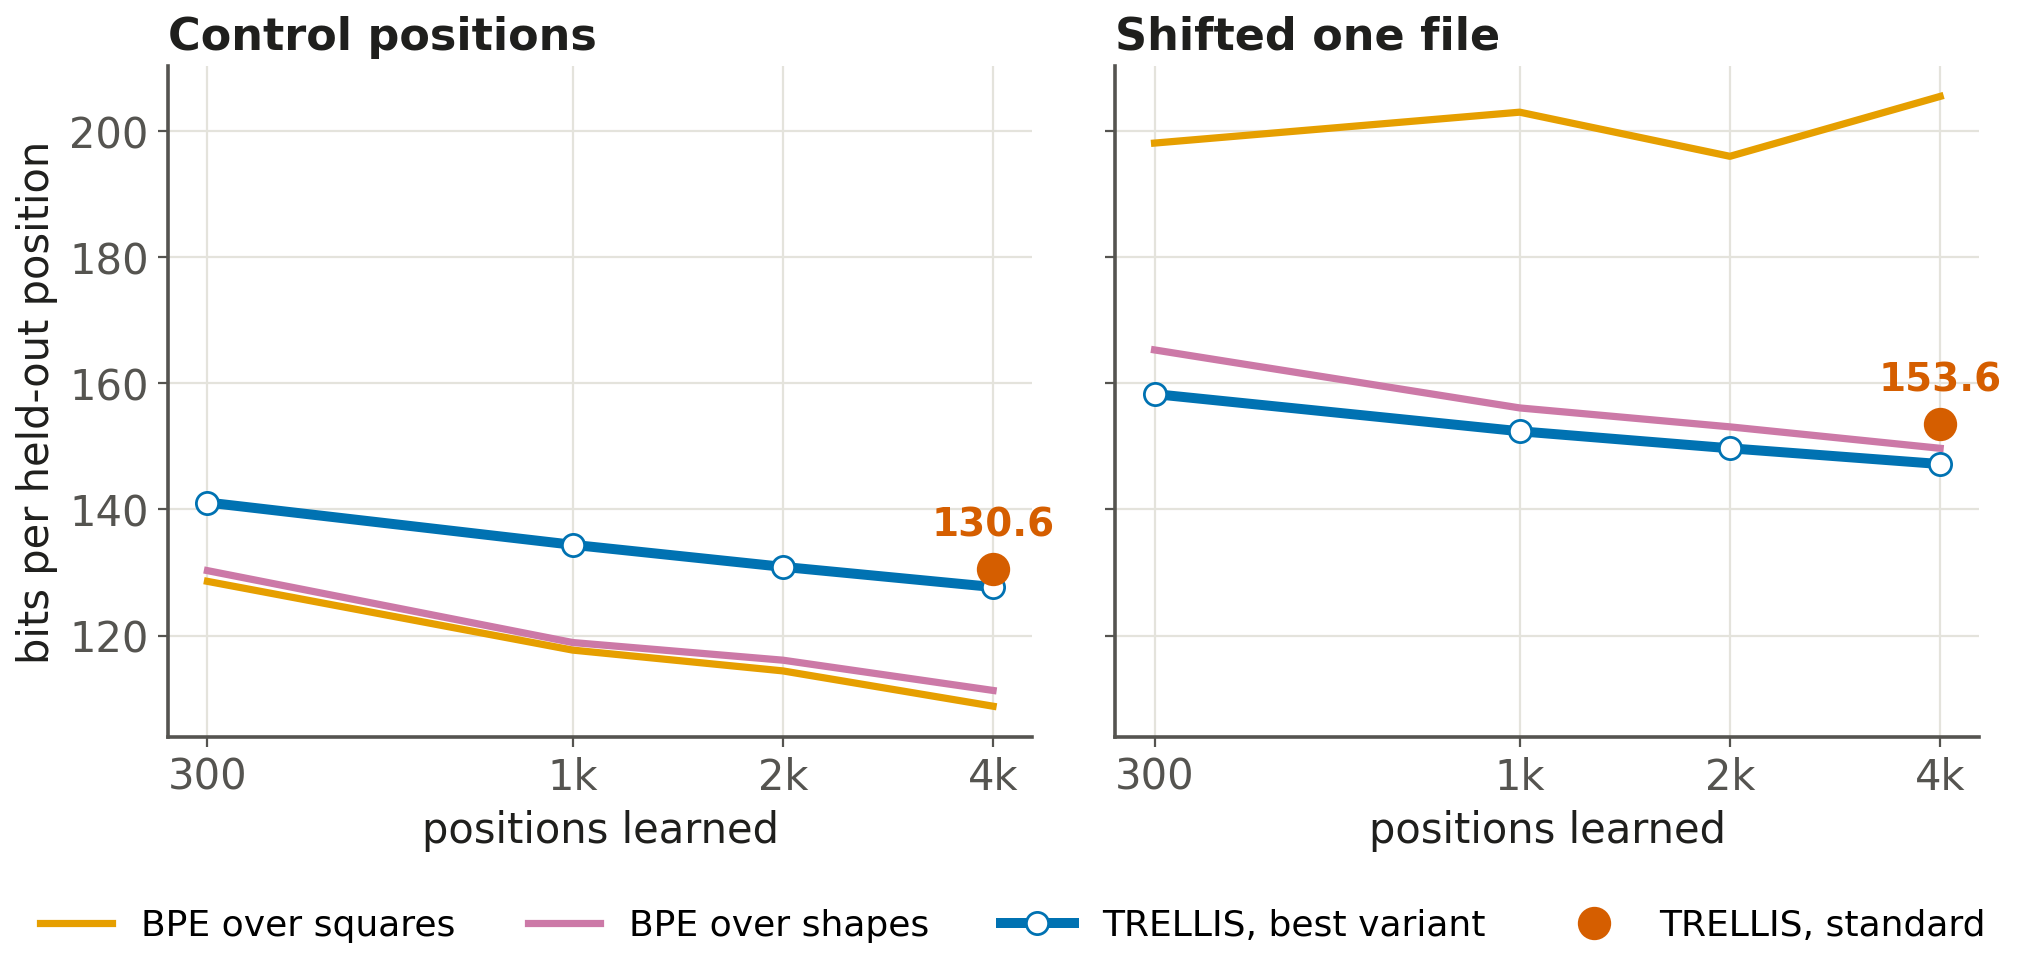
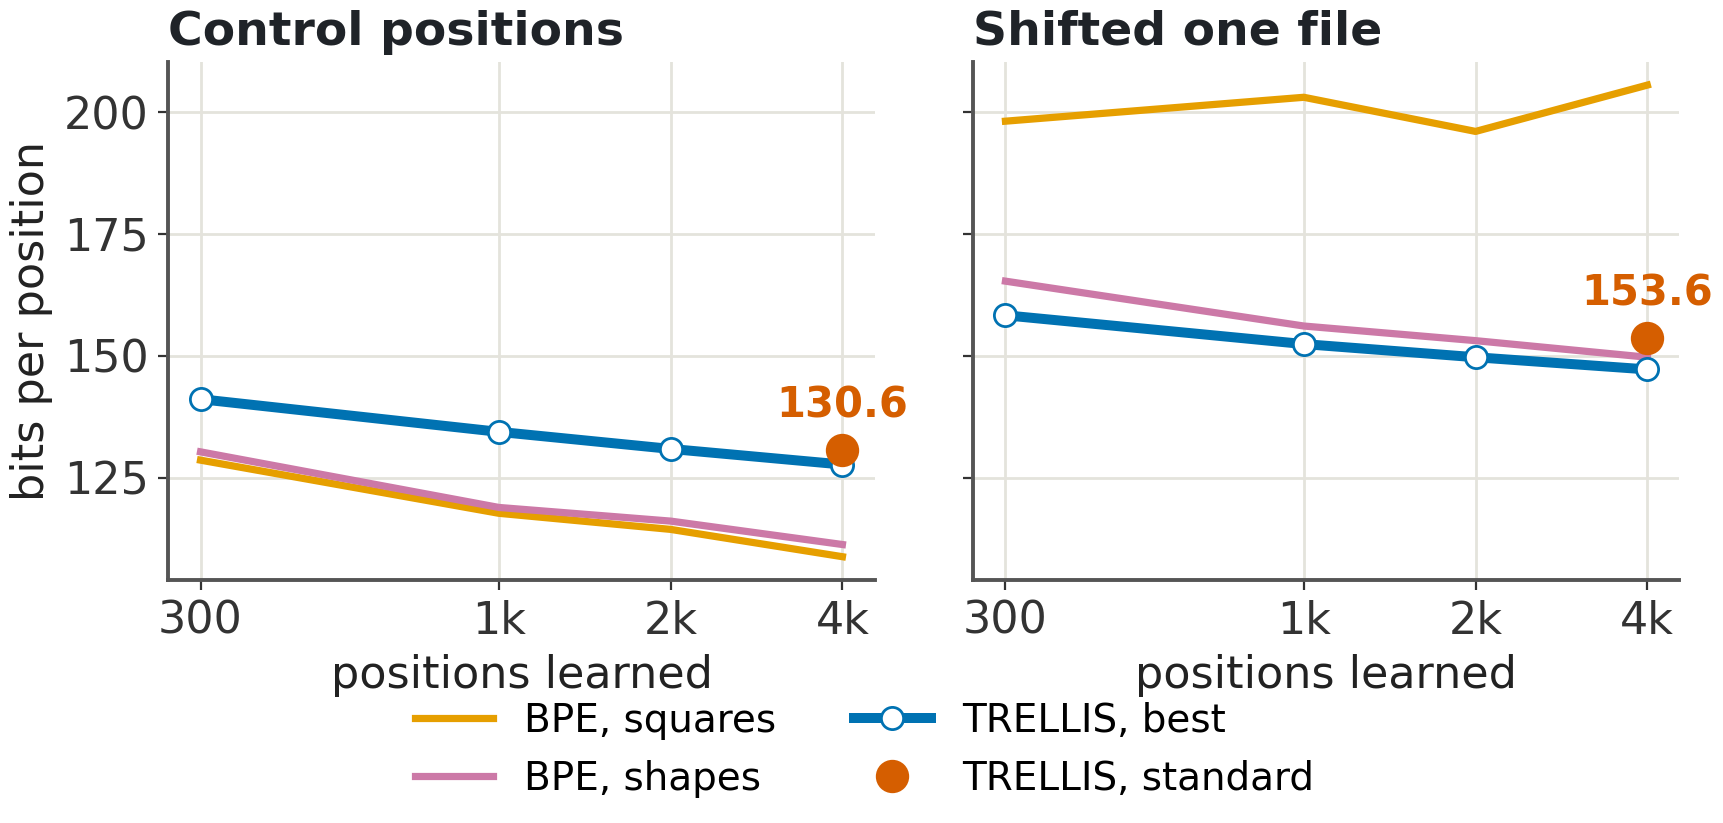
Talk deck revision 5: Chase and Simon trials from the paper protocol, 14 pt on slides 21, 23, 24

diff --git a/confs/trellis-v2/make_talk_figures_rev5.py b/confs/trellis-v2/make_talk_figures_rev5.py
@@ -1,0 +1,190 @@
+"""Deck revision 5: Chase and Simon trials from the paper's protocol (slide 25) and 14 pt text on slides 21, 23, 24.
+
+Slide 25 data: experiments/v3/results/chess_cs1973_exact/cs73x_s{13,17,19}.json, memory K=7, middle-game positions,
+"curve k" = pieces correct on trial k (repeated views, previous reconstruction kept, capped at seven chunk slots),
+ten simulated subjects per seed sharing one memory, mean over seeds. Trial 1 is the paper's first-trial recall
+(7.2, 9.7, 12.9 after 300, 1,000 and 4,000 positions; supplement Table S10, main text Section Chase and Simon).
+People: the digitised Chase and Simon (1973) Figure 1 curves in plot_s6.CS_FIG1.
+Run on a compute node:  python confs/trellis-v2/make_talk_figures_rev5.py [cs25 gen21 chess23 comp24]"""
+import json
+import math
+import os
+import sys
+
+import matplotlib
+matplotlib.use("Agg")
+import matplotlib.pyplot as plt
+from matplotlib.patches import Rectangle
+from matplotlib.lines import Line2D
+
+HERE = os.path.dirname(os.path.abspath(__file__))
+ROOT = os.path.normpath(os.path.join(HERE, "..", ".."))
+OUT = os.path.join(HERE, "talk_figures")
+RES = os.path.join(ROOT, "experiments", "v3", "results")
+WANT = set(sys.argv[1:])
+BLUE, ORANGE, GREEN, RED = "#0072B2", "#E69F00", "#009E73", "#D55E00"
+GRID, MUTED = "#e4e3dc", "#555450"
+
+
+def want(n):
+    return not WANT or n in WANT
+
+
+def style(size=16):
+    plt.rcParams.update({"font.family": "DejaVu Sans", "font.size": size, "axes.edgecolor": "#555",
+                         "axes.labelcolor": "#222", "xtick.color": "#333", "ytick.color": "#333",
+                         "axes.spines.top": False, "axes.spines.right": False, "figure.facecolor": "white",
+                         "axes.facecolor": "white", "axes.linewidth": 1.4, "xtick.labelsize": size,
+                         "ytick.labelsize": size, "axes.labelsize": size})
+
+
+def save(fig, name):
+    p = os.path.join(OUT, name)
+    fig.savefig(p, dpi=200, bbox_inches="tight", facecolor="white", pad_inches=0.05)
+    plt.close(fig)
+    print("wrote", p)
+
+
+def cs25():
+    sys.path.insert(0, os.path.join(ROOT, "experiments", "v3"))
+    argv = sys.argv
+    sys.argv = [argv[0]]
+    import plot_s6 as m
+    sys.argv = argv
+    style(16)
+    base = os.path.join(RES, "chess_cs1973_exact")
+    runs = [json.load(open(os.path.join(base, f"cs73x_s{s}.json"), encoding="utf-8")) for s in (13, 17, 19)]
+    NT = 7
+
+    def curve(n):
+        out = []
+        for k in range(1, NT + 1):
+            out.append(sum(r["points"][str(n)]["memory"]["K=7"]["middle"][f"curve {k}"]["mean"] for r in runs) / len(runs))
+        return out
+    fig, axes = plt.subplots(1, 2, figsize=(9.0, 3.4), sharey=True)
+    ax = axes[0]
+    for p, lab in (("M", "master"), ("A", "class A"), ("B", "beginner")):
+        ys = m.CS_FIG1["middle"][p]
+        ax.plot(range(1, len(ys) + 1), ys, color=m.PLAYER[p], marker=m.MARK[p], ms=8, lw=3.2,
+                ls="-" if p == "M" else "--" if p == "A" else ":", label=lab)
+    ax.set_title("People", loc="left", fontsize=17, fontweight="bold")
+    ax.legend(loc="lower right", fontsize=15, frameon=False, handlelength=2.6)
+    ax = axes[1]
+    spec = ((4000, BLUE, "o", "-", "4,000 positions"), (1000, ORANGE, "s", "--", "1,000 positions"),
+            (300, GREEN, "^", ":", "300 positions"))
+    for n, c, mk, ls, lab in spec:
+        ax.plot(range(1, NT + 1), curve(n), color=c, marker=mk, ms=8, lw=3.2, ls=ls, label=lab)
+    ax.set_title("TRELLIS, 7 chunks", loc="left", fontsize=17, fontweight="bold")
+    ax.legend(loc="lower right", fontsize=15, frameon=False, handlelength=2.6)
+    for a in axes:
+        a.set_xlim(0.6, 7.4); a.set_ylim(0, 27); a.set_xticks([1, 3, 5, 7]); a.set_yticks([0, 10, 20])
+        a.set_xlabel("trial"); a.grid(axis="y", color=GRID, lw=1)
+    axes[0].set_ylabel("pieces correct")
+    fig.tight_layout()
+    save(fig, "cs_trials_talk.png")
+
+
+def gen21():
+    style(16)
+    gn = [250, 500, 1000, 4000]
+    fc = {"syntax": {"TRELLIS": [.3030, .3718, .4096, .4163], "LSTM": [.2877, .3731, .4200, .4729],
+                     "GPT": [.2828, .3720, .4284, .4716]},
+          "syntax and meaning": {"TRELLIS": [.1890, .2304, .2584, .2220], "LSTM": [.1828, .2435, .2840, .2916],
+                                 "GPT": [.1671, .2265, .2711, .3042]}}
+    cols = {"TRELLIS": BLUE, "LSTM": RED, "GPT": GREEN}
+    fig, axs = plt.subplots(1, 2, figsize=(9.0, 3.5), gridspec_kw={"wspace": 0.38})
+    for ax, (title, series) in zip(axs, fc.items()):
+        for name, y in series.items():
+            ax.plot(gn[:3], y[:3], "-", color=cols[name], lw=3.4 if name == "TRELLIS" else 2.4, marker="o", ms=7,
+                    label=name)
+            ax.plot(gn[2:], y[2:], ":", color=cols[name], lw=2.4)
+            ax.plot(gn[3:], y[3:], "o", color=cols[name], ms=8, mfc="white", mew=2)
+        ax.set_xscale("log", base=2); ax.set_xticks(gn); ax.set_xticklabels(["250", "500", "1k", "4k"])
+        ax.minorticks_off()
+        ax.set_xlabel("training sentences"); ax.set_title("Judge: " + title, fontsize=16, loc="left", fontweight="bold")
+        ax.grid(axis="y", color=GRID, lw=1)
+    axs[0].set_ylabel("fair count")
+    h, l = axs[0].get_legend_handles_labels()
+    h.append(Line2D([], [], color="#444", ls=":", marker="o", mfc="white", mew=2, ms=8, lw=2.4))
+    l.append("4k: two seeds")
+    axs[0].legend(h, l, frameon=False, fontsize=14, loc="lower right", handlelength=2.2)
+    fig.tight_layout()
+    save(fig, "generation_fair_count_talk.png")
+
+
+def chess23():
+    style(16)
+    GLYPH = {"wK": "♔", "wQ": "♕", "wR": "♖", "wB": "♗", "wN": "♘", "wP": "♙",
+             "bK": "♚", "bQ": "♛", "bR": "♜", "bB": "♝", "bN": "♞", "bP": "♟"}
+    LIGHT, DARK = "#efe6d6", "#c9b79c"
+    RING = ["#2a78d6", "#d6336c", "#1baf7a", "#eda100", "#8a5cd6", "#eb6834", "#6b6a64"]
+    d = json.load(open(os.path.join(RES, "chess_ideas", "ideas_s13.json"), encoding="utf-8"))
+    cps = [c["learned"] for c in d["checkpoints"]]
+    case = d["cases"][0]
+    fig, axes = plt.subplots(1, 3, figsize=(9.6, 4.15))
+    for ax, cp in zip(axes, (300, 1000, 4000)):
+        snap = case["by checkpoint"][cps.index(cp)]
+        chunks = snap["chunks"][:len(RING)]
+        for f in range(8):
+            for r in range(8):
+                ax.add_patch(Rectangle((f, r), 1, 1, color=LIGHT if (f + r) % 2 else DARK, lw=0))
+        for k, ch in enumerate(chunks):
+            for name, _ in ch["pieces"]:
+                f, r = "abcdefgh".index(name[0]), int(name[1]) - 1
+                ax.add_patch(Rectangle((f + 0.07, r + 0.07), 0.86, 0.86, fill=False, ec=RING[k], lw=3))
+        for name, tok in case["fen"].items():
+            f, r = "abcdefgh".index(name[0]), int(name[1]) - 1
+            ax.text(f + 0.5, r + 0.47, GLYPH[tok], ha="center", va="center", fontsize=17)
+        ax.set_xlim(0, 8); ax.set_ylim(0, 8); ax.set_aspect("equal"); ax.set_xticks([]); ax.set_yticks([])
+        for sp in ax.spines.values():
+            sp.set_visible(False)
+        ax.set_title(f"{cp:,} learned", fontsize=17, fontweight="bold")
+        labs = [(ch["ideas"][0] if ch["ideas"] else None) for ch in chunks][:3]
+        ax.set_xlabel("\n".join(f"{k + 1}: {t}" for k, t in enumerate(labs) if t) or "no chunk", fontsize=16,
+                      color=MUTED, labelpad=4, linespacing=1.1)
+    fig.tight_layout()
+    save(fig, "chess_ideas_cases_talk.png")
+
+
+def comp24():
+    sys.path.insert(0, os.path.join(ROOT, "experiments", "v3"))
+    argv = sys.argv
+    sys.argv = [argv[0]]
+    import plot_s6 as m
+    sys.argv = argv
+    style(16)
+    CC = os.path.join(m.RES, "chess_compress")
+    STD = {"control": "ab-control-control", "shift": "ab-control-shift"}
+
+    def std_bits(s):
+        dd = json.load(open(os.path.join(CC, STD[s] + "_s13.json"), encoding="utf-8"))
+        return min(r["bits per position"] for r in dd["by levels"] if r.get("copy") is True)
+    names = {"BPE, squares": "BPE, squares", "BPE, shapes": "BPE, shapes", "TRELLIS": "TRELLIS, best"}
+    fig, axes = plt.subplots(1, 2, figsize=(9.0, 3.9), sharey=True)
+    for ax, (s, title) in zip(axes, (("control", "Control positions"), ("shift", "Shifted one file"))):
+        for name, color, ls in m.METHODS:
+            if name not in names:
+                continue
+            pts = [(n, m.bits(name, s, n)) for n in m.NS]
+            pts = [(n, b) for n, b in pts if b is not None]
+            ax.plot(*zip(*pts), color=color, ls=ls, lw=3.6 if name == "TRELLIS" else 2.6,
+                    marker="o" if name == "TRELLIS" else None, ms=8, mfc="white" if name == "TRELLIS" else None,
+                    label=names[name])
+        b = std_bits(s)
+        ax.plot([4000], [b], "o", color="#D55E00", ms=11, zorder=5, label="TRELLIS, standard")
+        ax.annotate(f"{b:.1f}", (4000, b), textcoords="offset points", xytext=(0, 12), ha="center", fontsize=15,
+                    color="#D55E00", fontweight="bold")
+        ax.set_xscale("log"); ax.set_xticks(m.NS); ax.minorticks_off(); ax.set_xticklabels(["300", "1k", "2k", "4k"])
+        ax.set_title(title, loc="left", fontsize=17, fontweight="bold"); ax.set_xlabel("positions learned")
+        ax.grid(color=GRID, lw=1)
+    axes[0].set_ylabel("bits per position")
+    h, l = axes[0].get_legend_handles_labels()
+    fig.legend(h, l, loc="lower center", ncol=2, fontsize=14, frameon=False, bbox_to_anchor=(0.5, -0.12))
+    fig.tight_layout()
+    save(fig, "chess_chunkers_talk.png")
+
+
+if __name__ == "__main__":
+    for n, f in (("cs25", cs25), ("gen21", gen21), ("chess23", chess23), ("comp24", comp24)):
+        if want(n):
+            f()

diff --git a/docs/talk/TRELLIS_v2_talk.md b/docs/talk/TRELLIS_v2_talk.md
@@ -362,3 +362,6 @@ Backups: 32 What Changes in Version 2; 33 Parsing Within a Window; 34 Parsing Al
 
 ## Revision 4b (2026-11-21): 14 pt picture text on slides 6, 10, 14, 17, 25, 28
 confs/trellis-v2/make_talk_figures_rev4.py redraws the four infographics (three-word example, large labelled boxes instead of mini-trees, 22 pt in a 13.5 in figure shown 8.6 in wide) and the two plots (16 pt). Slide 25 now shows the middle-game panels only (the random-position panels are in the notes) and a two-line caption. Drive ids (v4): parse_v1 139JWJwl4NRX1KOLII0fYEs76QfCD_kmM, parse_v2 1mn4zpTBH_-dGunZwja5N77oKun196bDQ, generation_v2 1w-zut3bXwy26cQKxLyGarYmrPvVwE8Ny, learning_v2 1-Q3h6YxgJxg5my6AfEZ3j_UQALy6I5xy, cs_trials 15YMY1z52pkpEQDvzBhTtyd30rjChrxZk, controlled_regimes 1r2naJPJZMD-vxkxZ6EozqbBA0VrhbRDj.
+
+## Revision 5 (2026-11-21): slide 25 data fix and 14 pt on slides 21, 23, 24
+confs/trellis-v2/make_talk_figures_rev5.py. Slide 25 now plots the paper's protocol: experiments/v3/results/chess_cs1973_exact/cs73x_s{13,17,19}.json, memory K=7, middle-game positions, curve k = pieces correct on trial k (repeated views, seven chunk slots, mean over three seeds with ten subjects each); trial 1 = 7.2, 9.7, 12.9 after 300, 1,000, 4,000 positions as in the supplement and Section Chase and Simon. The previous figure read chess_recall/cs73_s{13,17}.json (previous reconstruction kept, no slot limit, trial 1 = 14.5, 17.3, 19.1), which did not match the caption. People curves are the digitised Chase and Simon (1973) Figure 1. Drive (v5): cs_trials 1WprHV1RUWz4hdUSeK8qCiV7tUCGMLOiD, generation_fair_count 14qJIvXbCWaFCzdgsDIRCKOqcZ7XVb6s8, chess_ideas_cases 1HN4-bq7tMhH5Vyzwwcl68tcG2YOA6IB-, chess_chunkers 1y7nQHESSgzhEox6SiZ7M2GzzObwRXWYi.
